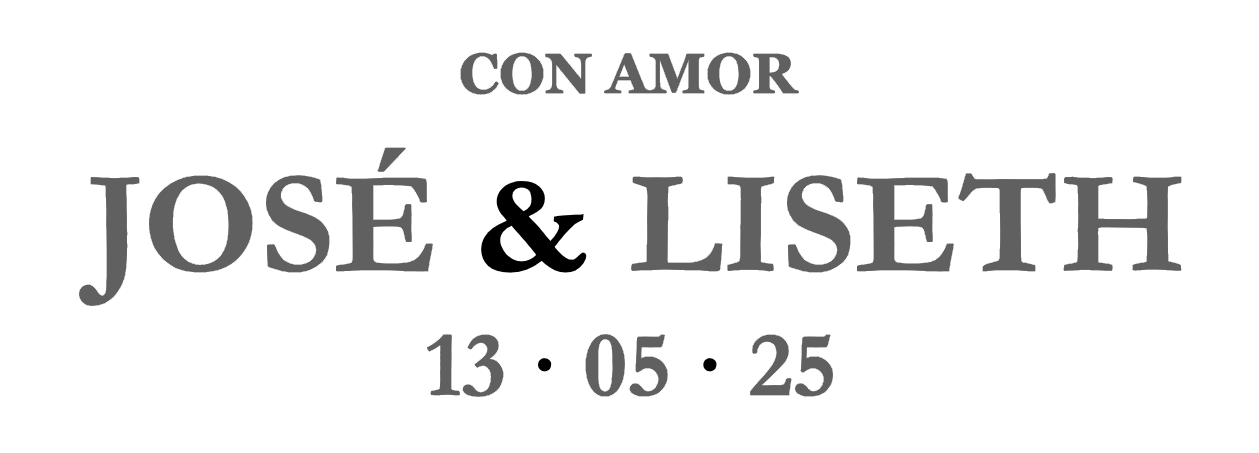
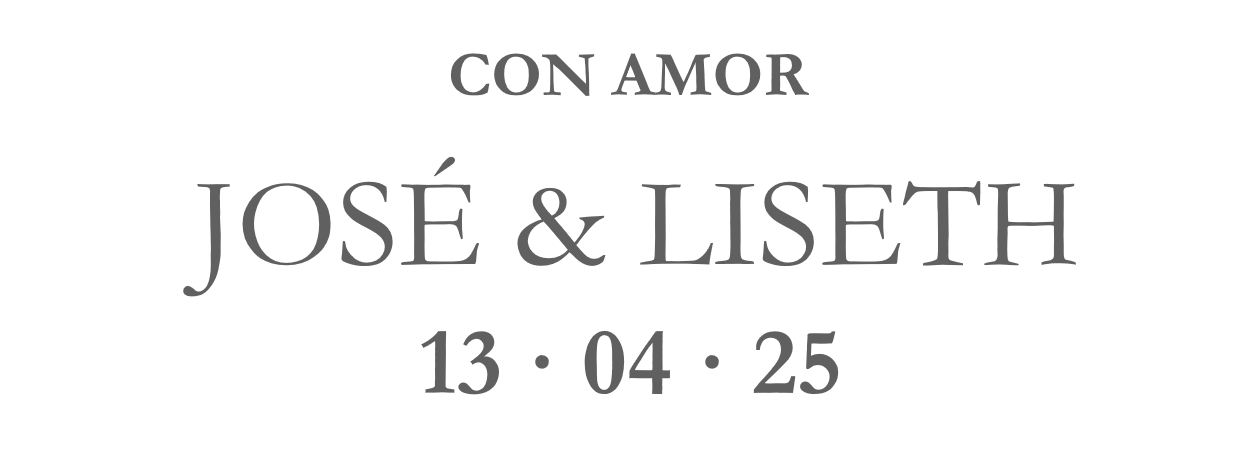
corrections

diff --git a/index.html b/index.html
@@ -36,13 +36,13 @@
   <meta property="og:title" content="José y Liseth">
   <meta property="og:type" content="website">
   <meta property="og:description"
-    content="QUEDÁS OFICIALMENTE 
+    content="QUEDAS OFICIALMENTE 
     INVITADO A NUESTRA BODA EL DÍA
     13 de  abril del  2025
     DAREMOS EL ¡SÍ QUIERO!">
   <meta itemprop="name" content="José y Liseth">
   <meta itemprop="description"
-    content="QUEDÁS OFICIALMENTE 
+    content="QUEDAS OFICIALMENTE 
     INVITADO A NUESTRA BODA EL DÍA
     13 de  abril del  2025
     DAREMOS EL ¡SÍ QUIERO!">
@@ -3005,7 +3005,7 @@
                                 <div class="tyJCtd mGzaTb Depvyb baZpAe">
                                   <p dir="ltr" class="zfr3Q CDt4Ke "
                                     style="background-color: transparent; border-bottom: none; border-left: none; border-right: none; border-top: none; line-height: 1.7999999999999998; margin-bottom: 0.0pt; margin-top: 0.0pt; padding-bottom: 0.0pt; padding-left: 0.0pt; padding-right: 0.0pt; padding-top: 0.0pt; text-align: center;">
-                                    <span class="C9DxTc " style="color: #666666; font-variant: normal;">QUEDÁS
+                                    <span class="C9DxTc " style="color: #666666; font-variant: normal;">QUEDAS
                                       OFICIALMENTE&nbsp;</span></p>
                                   <p dir="ltr" class="zfr3Q CDt4Ke "
                                     style="background-color: transparent; border-bottom: none; border-left: none; border-right: none; border-top: none; line-height: 1.7999999999999998; margin-bottom: 0.0pt; margin-top: 0.0pt; padding-bottom: 0.0pt; padding-left: 0.0pt; padding-right: 0.0pt; padding-top: 0.0pt; text-align: center;">
